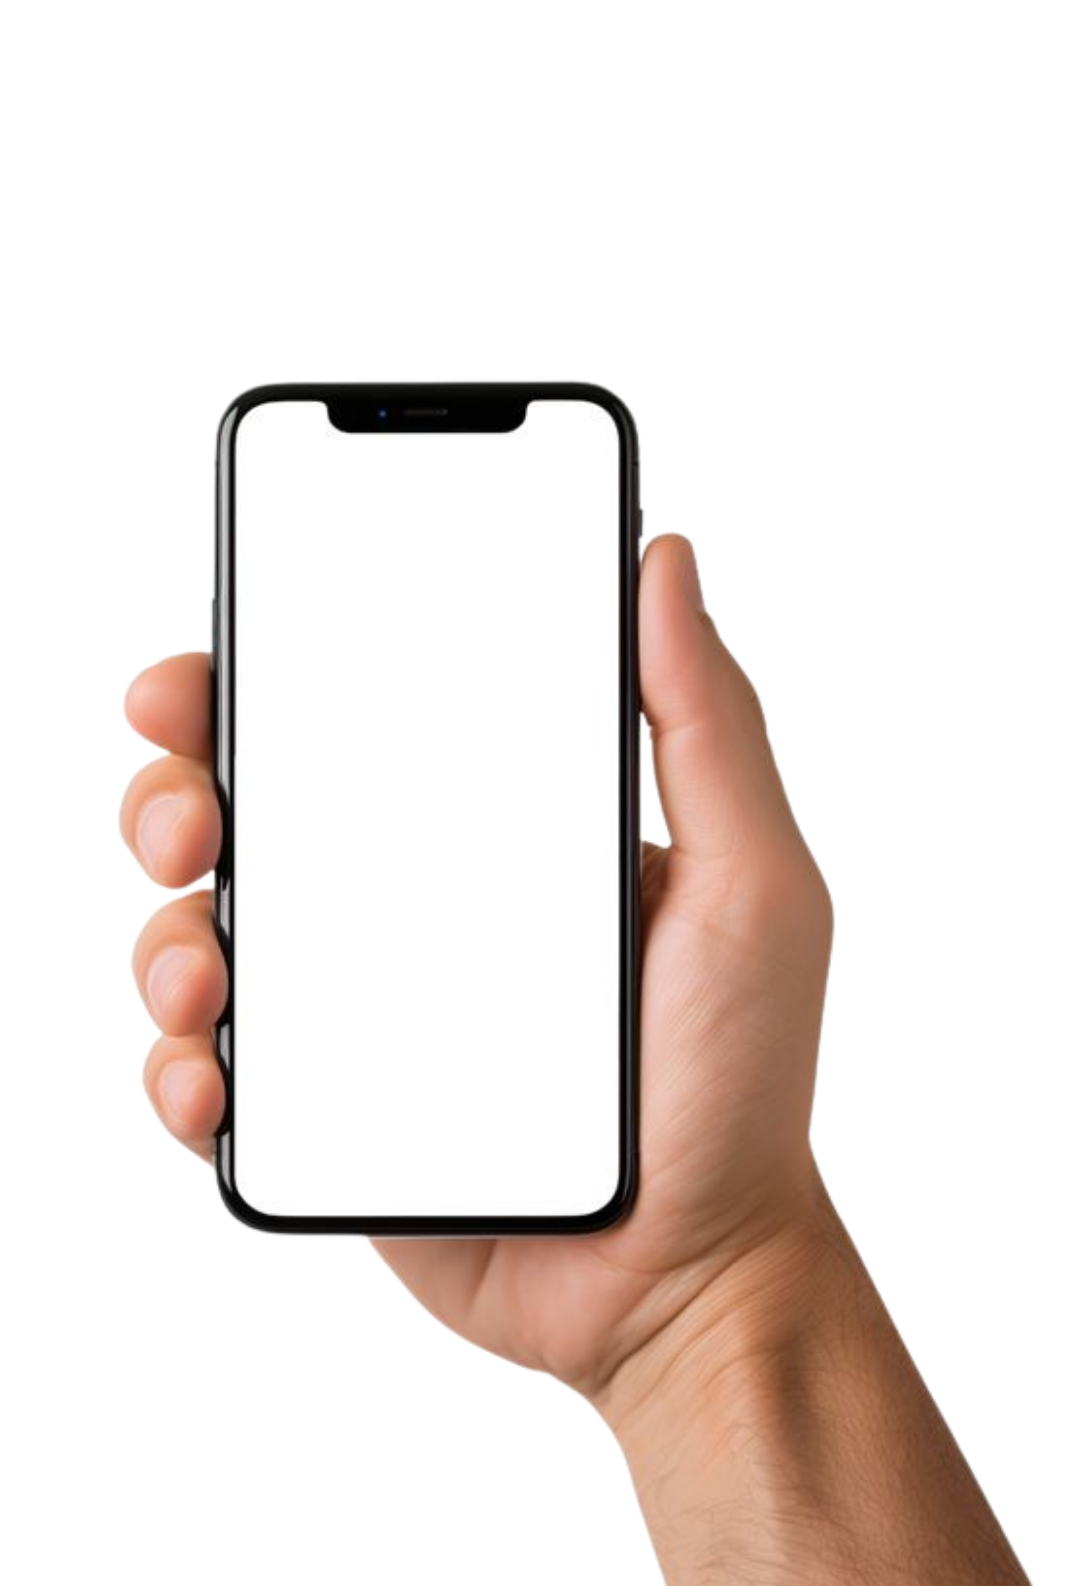
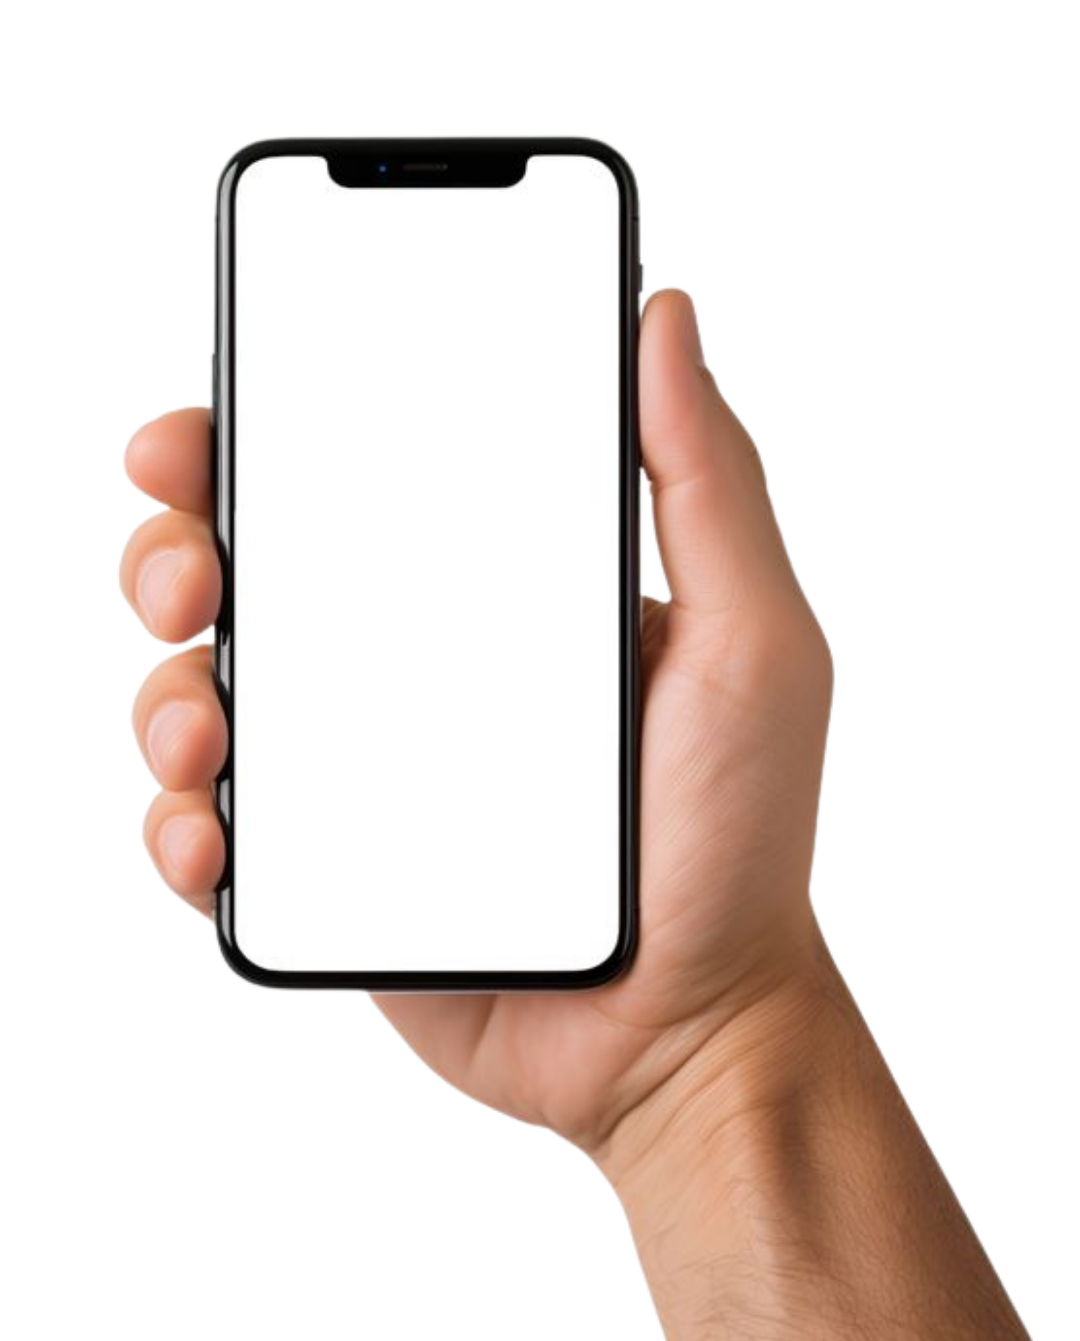
feat: enhance hero section with ambient glows, decorative framing, and improved shadow styling

Changed region(s): [[0.0917, 0.0917, 0.9167, 0.9478], [0.5806, 0.9172, 0.6111, 0.9784], [0.9167, 0.9478, 0.9472, 0.9784]]

diff --git a/src/app/page.tsx b/src/app/page.tsx
@@ -12,7 +12,7 @@ export default function Home() {
       <div className="noise-overlay opacity-[0.03]" />
       
       {/* Hero Section - Balanced 2-Column Layout (No Overlap) */}
-      <section className="relative z-10 pt-40 pb-0 md:pt-56 px-6 lg:px-12">
+      <section className="relative z-10 px-6 lg:px-12">
         <div className="max-w-7xl mx-auto">
           <div className="grid grid-cols-1 lg:grid-cols-2 gap-20 items-center">
             {/* Left Content */}